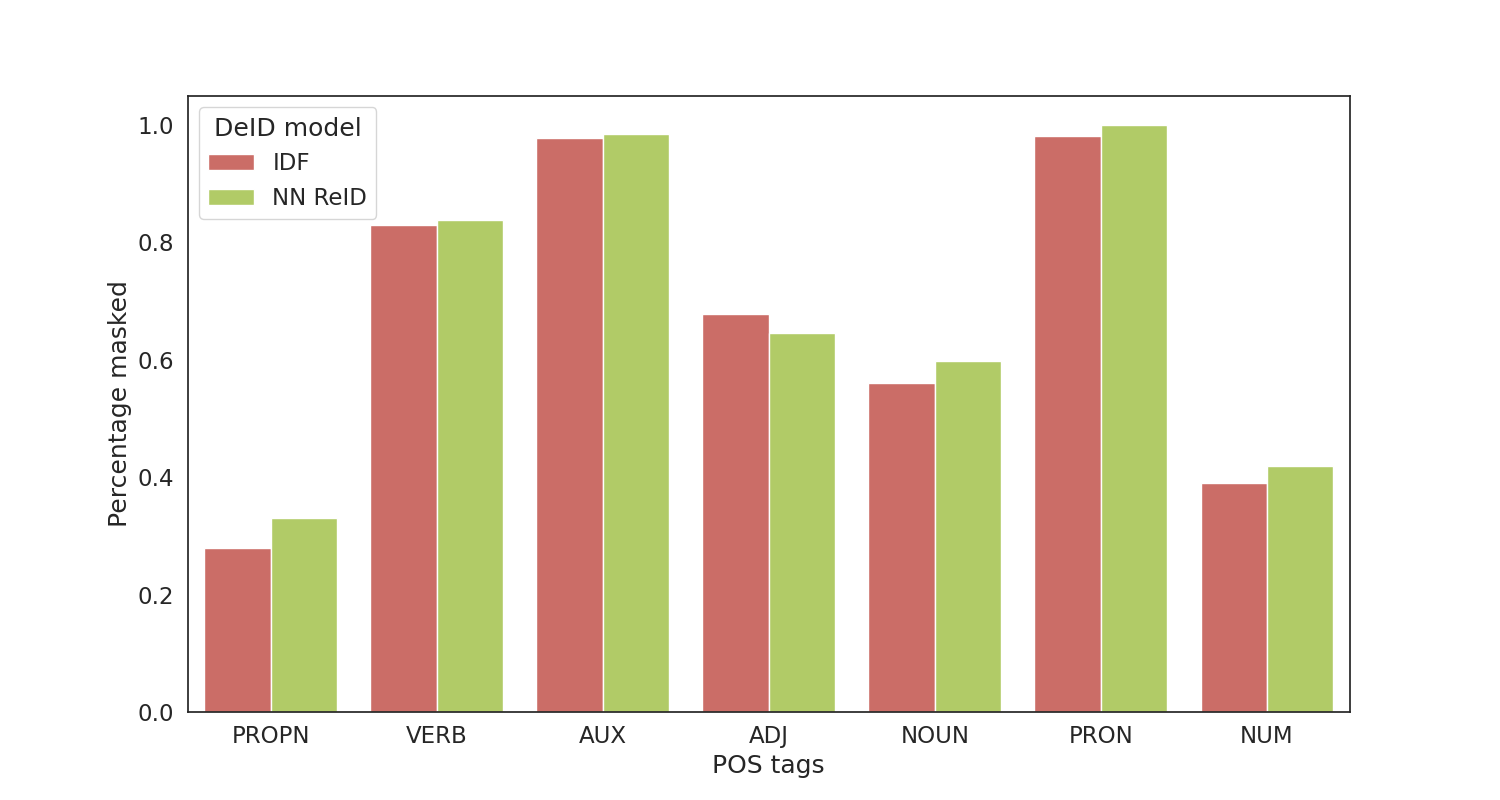
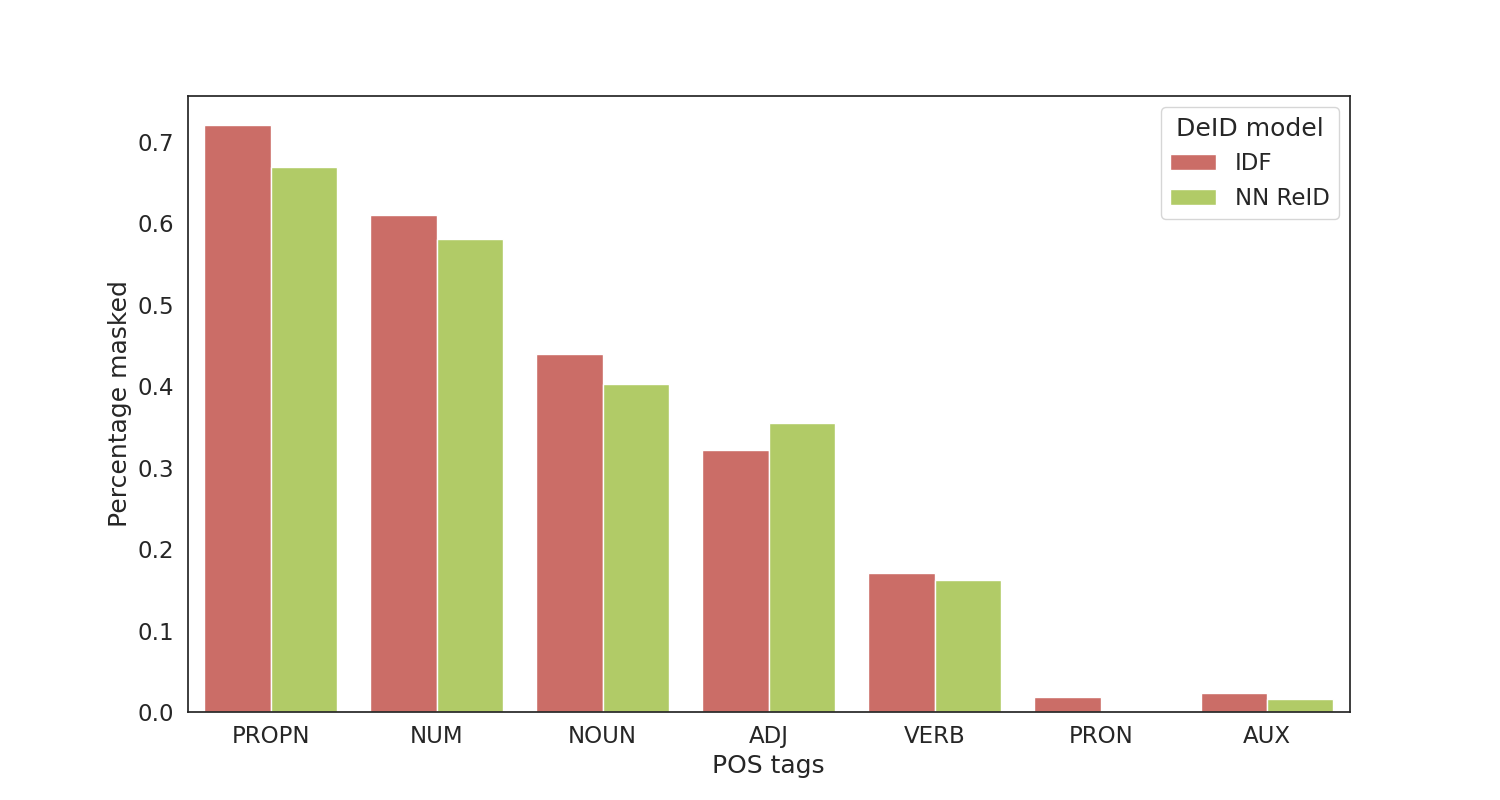
.

diff --git a/main.py b/main.py
@@ -160,14 +160,17 @@ if not pospath.exists():
         entities = bert_ner_pipeline(text)
 
         #for i in range(len(doc)):
-        #import pdb; pdb.set_trace()
+        # compare idf and neural masking for POS
+        for (a,b,c) in zip(doc, idf_text.split(), nn_text.split()):
+            print(a.pos_, b, c)
+        import pdb; pdb.set_trace()
         for method in deid_methods:
             words = rows[rows["deid_method"] == method]["perturbed_text"].values[0].split()
             is_masks = [w == "<mask>" for w in words]
             mask_sums[method] += np.sum(is_masks)
             assert len(doc) == len(is_masks)
             for i, (token, is_mask) in enumerate(zip(doc, is_masks)):
-                if not is_mask:
+                if method == "document" or is_mask:
                     pos = token.pos_
                     if pos not in exclude_pos:
                         posdict[method][pos] += 1
